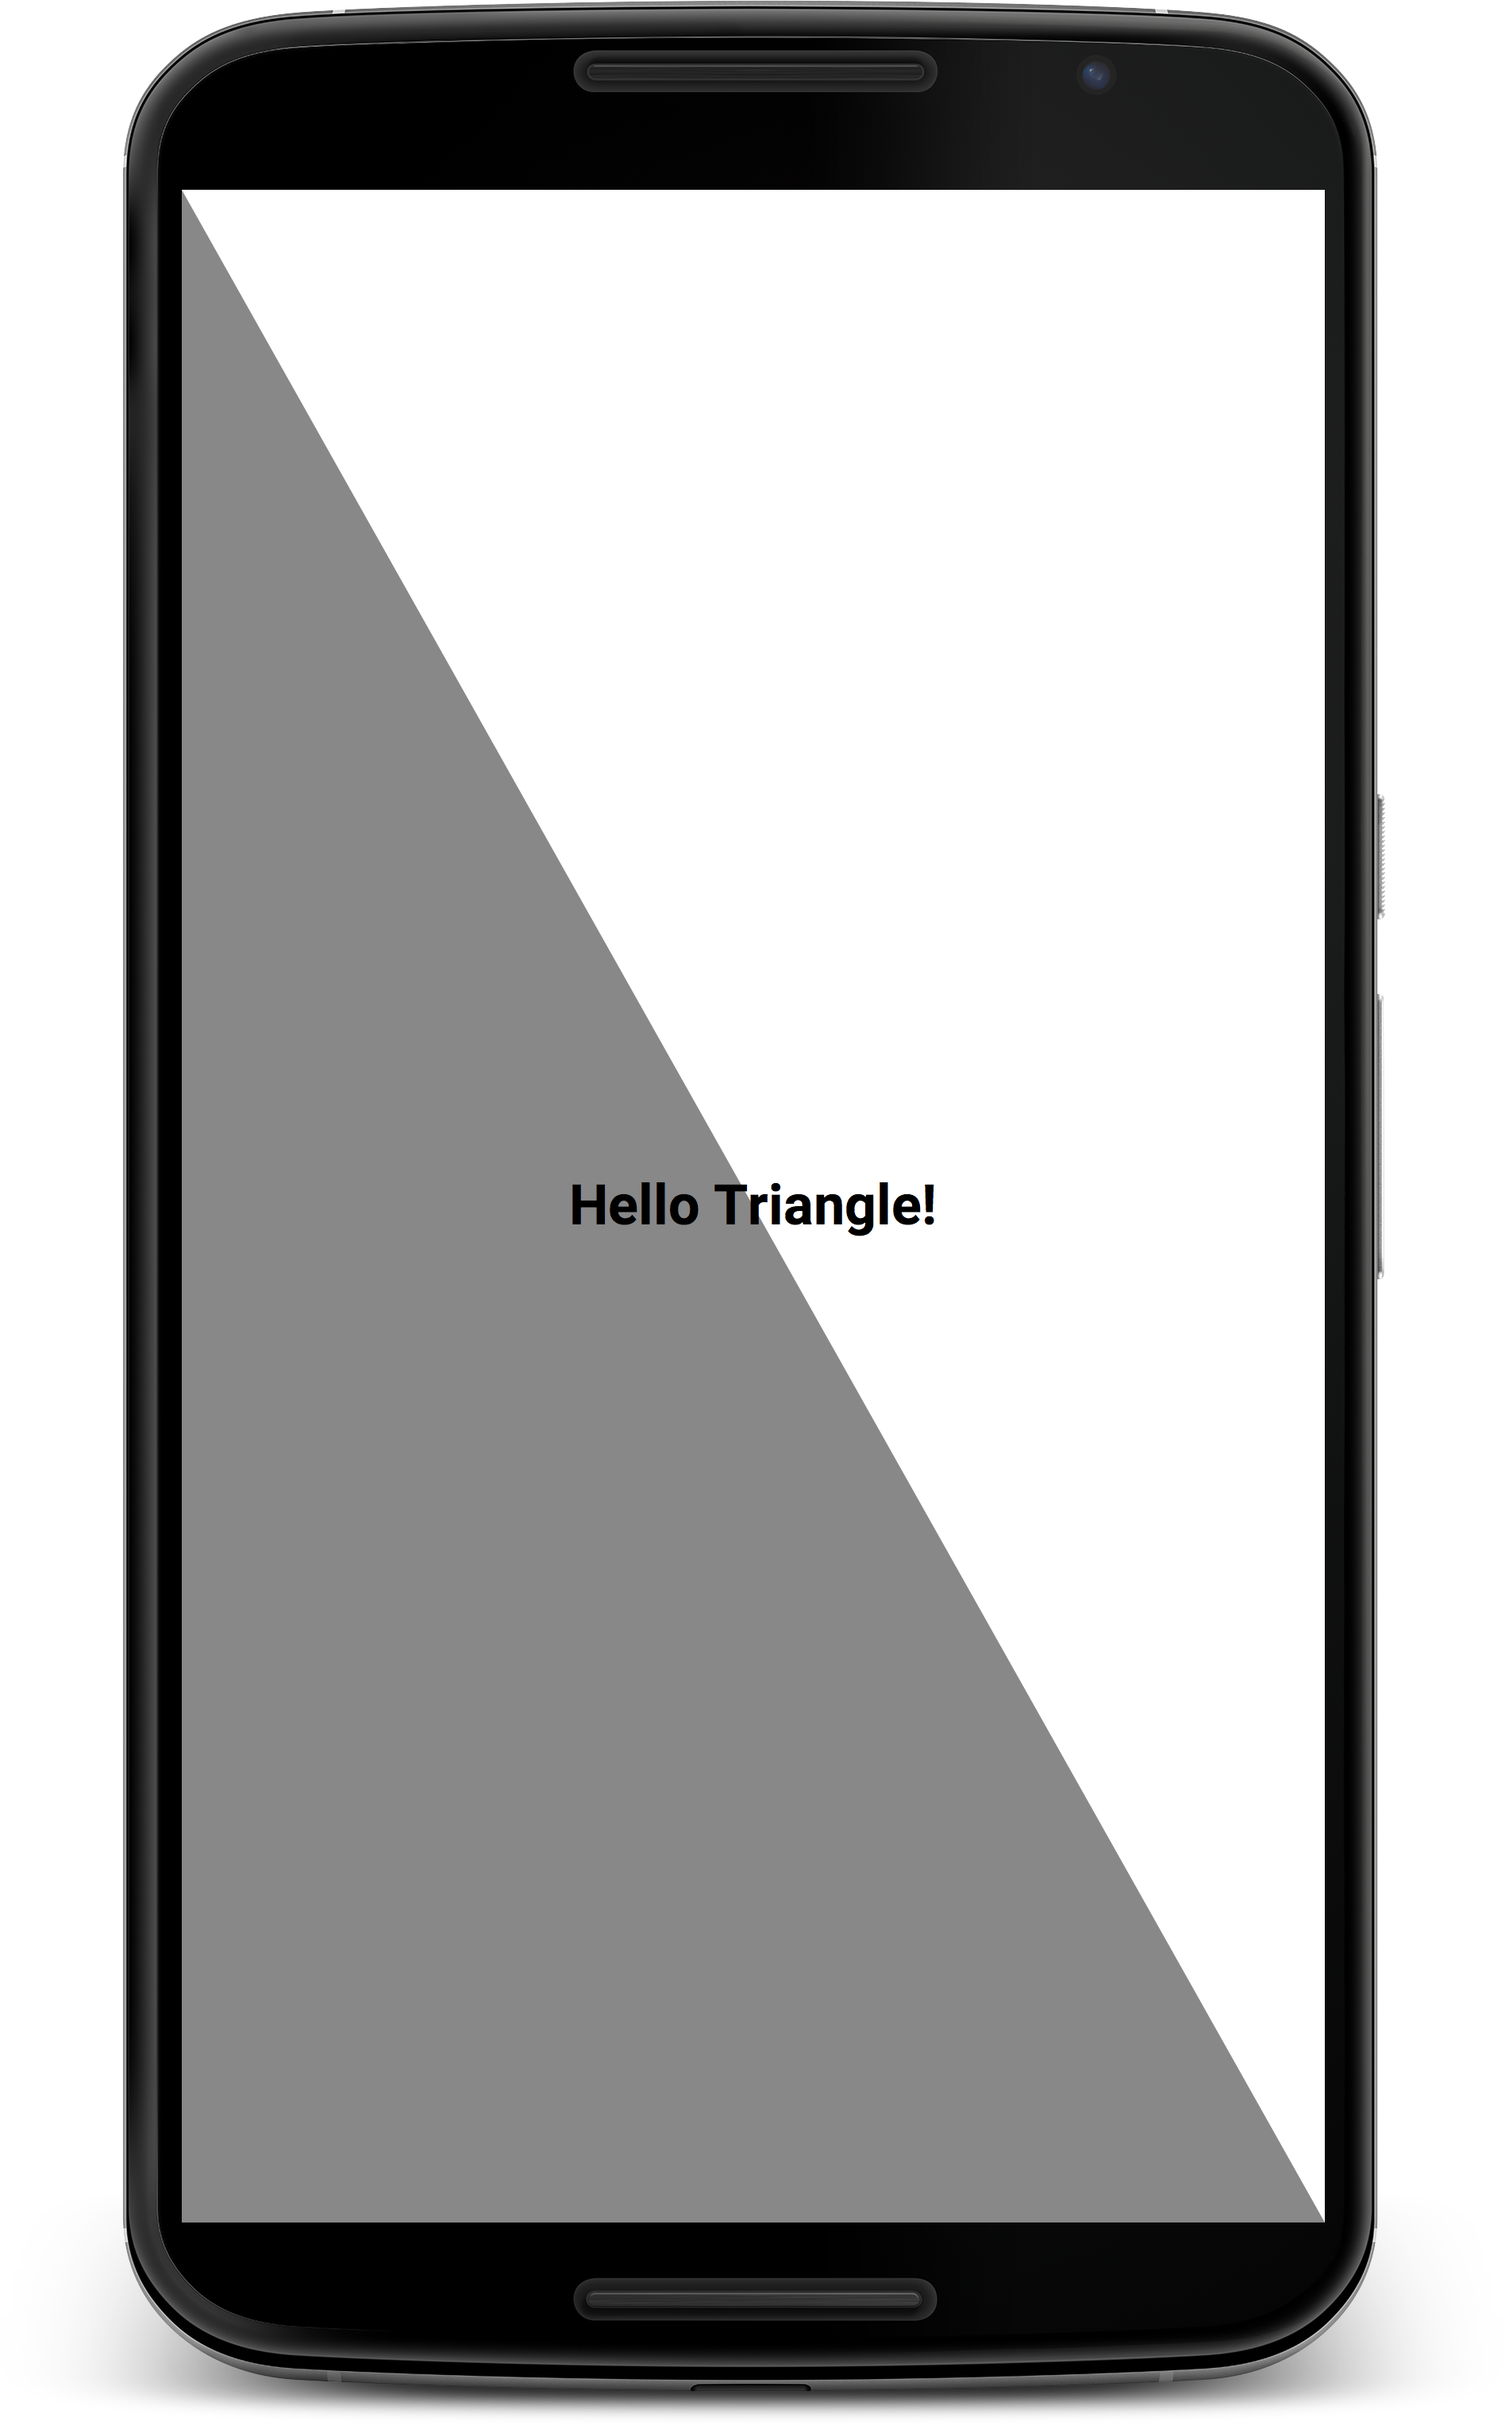
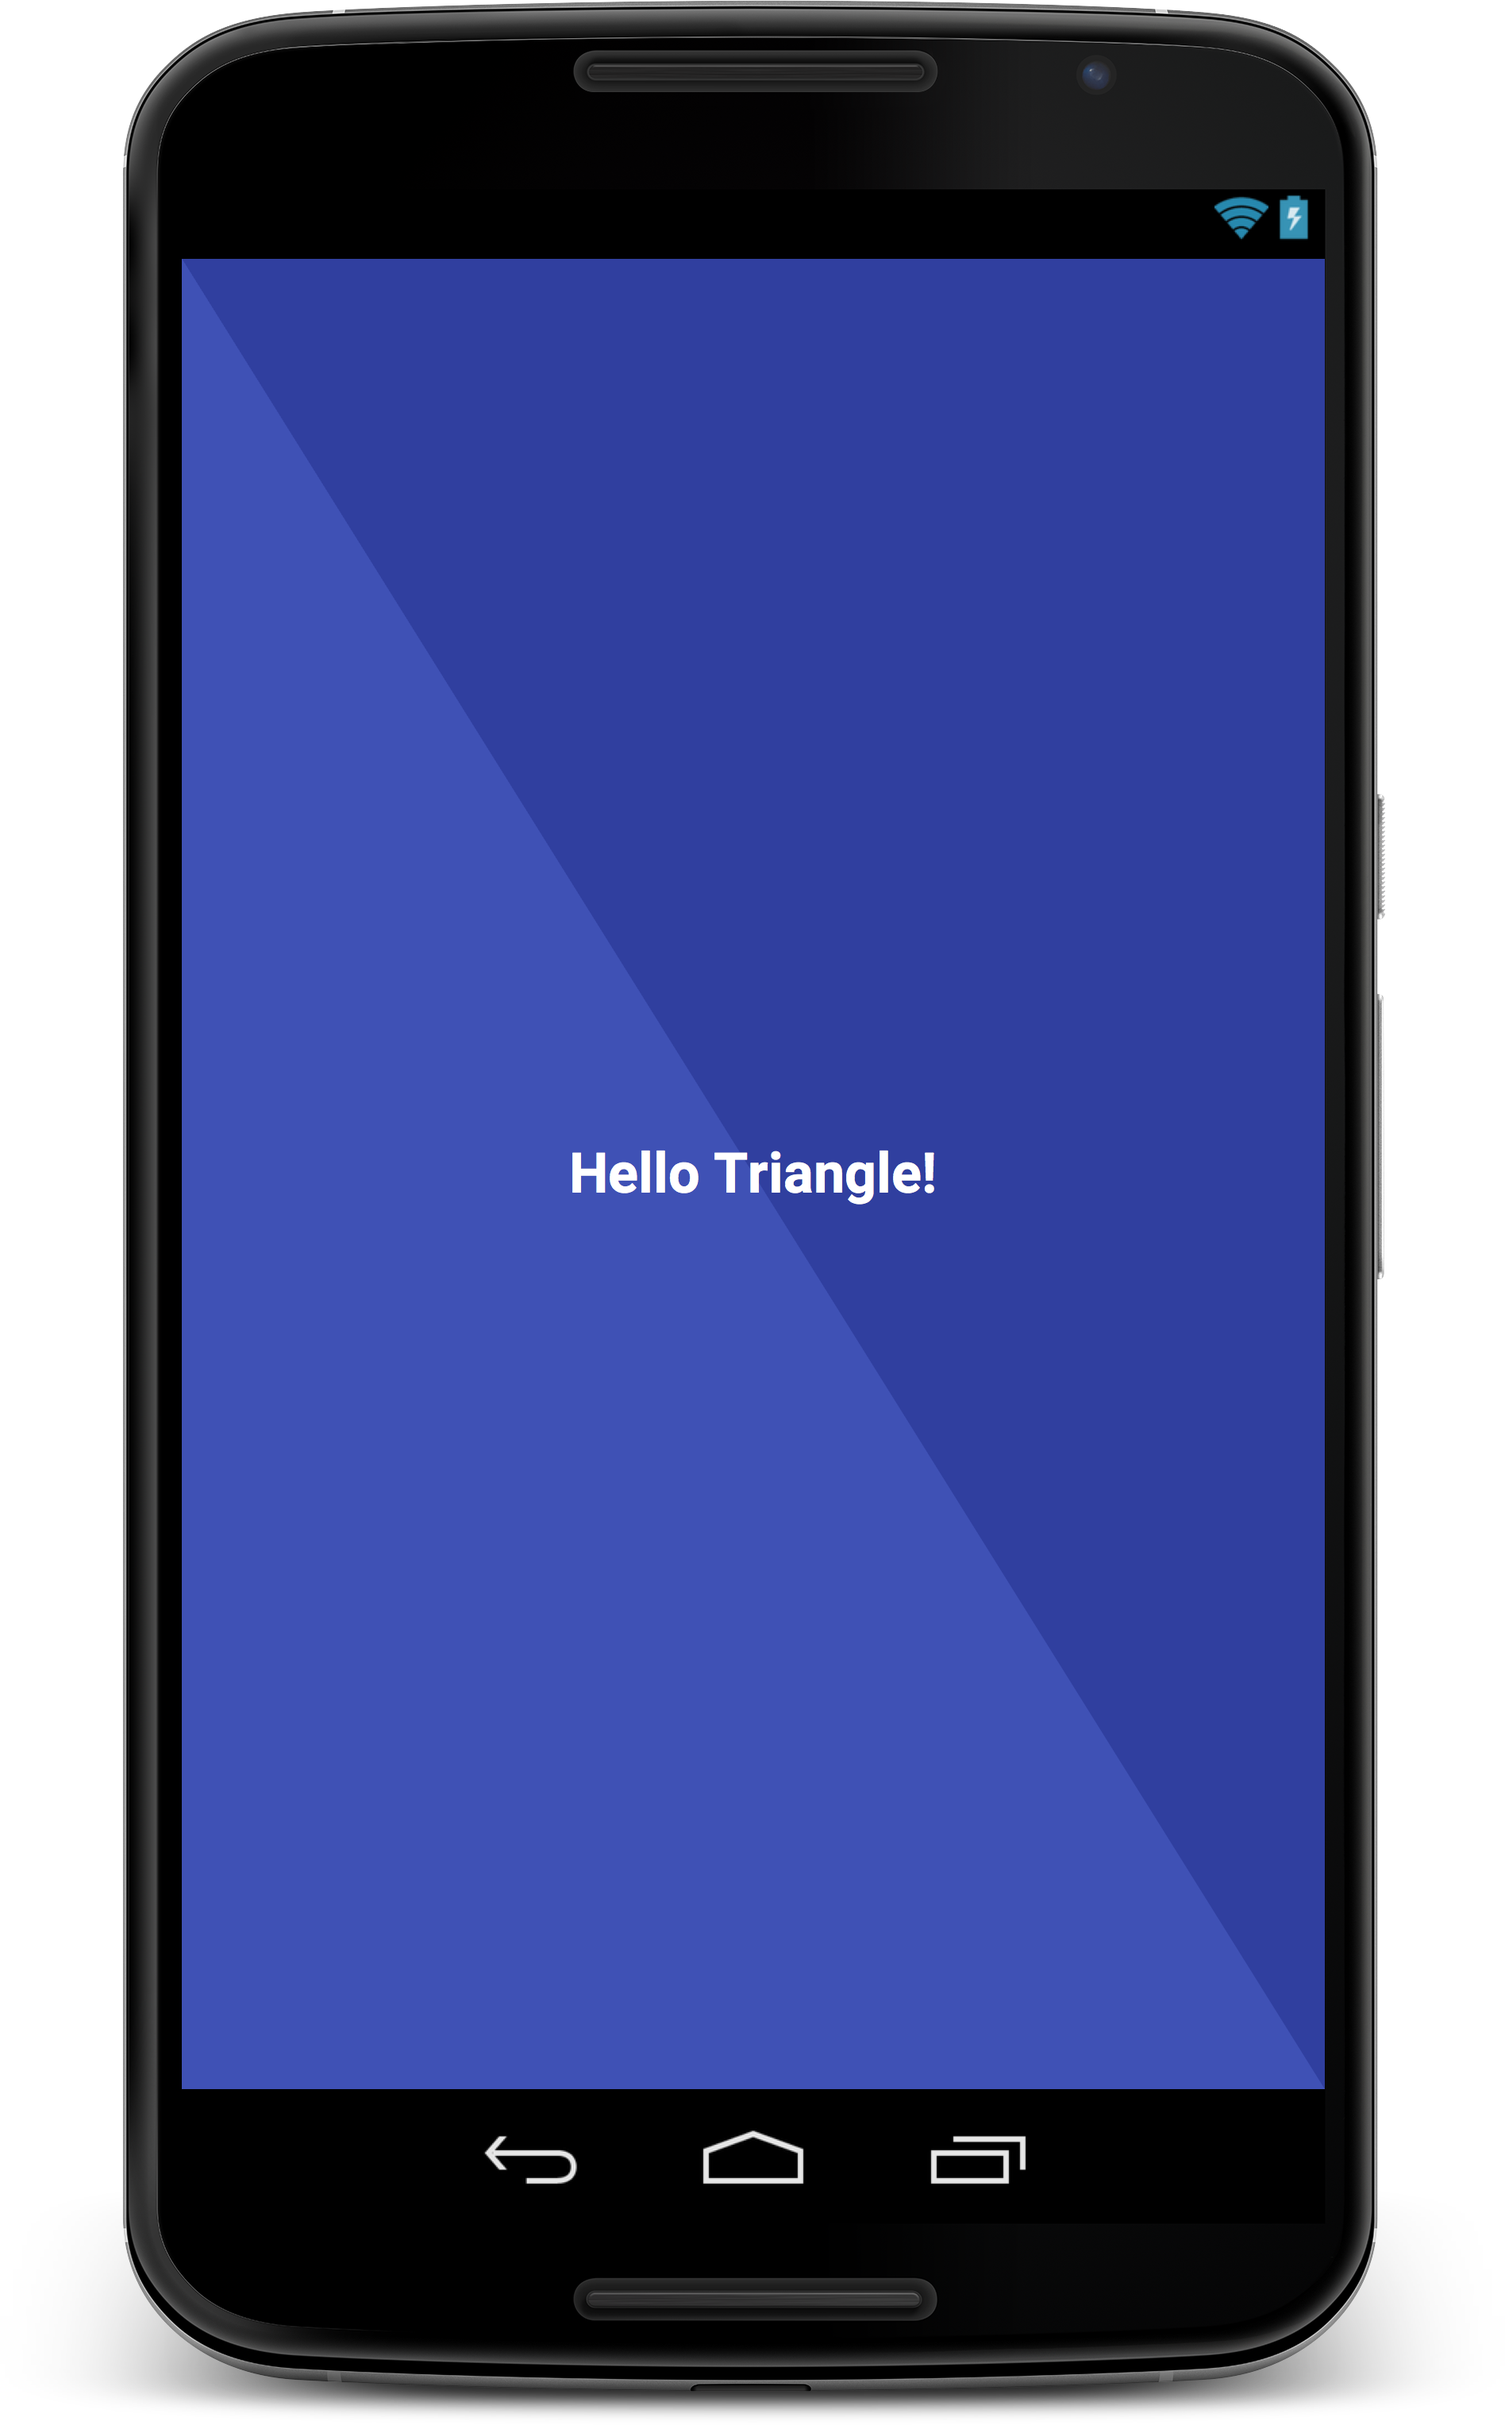
Change color

diff --git a/TriangleBackgroundView/app/src/main/java/com/ubelab/trianglebackgroundview/TriangleBackgroundView.java b/TriangleBackgroundView/app/src/main/java/com/ubelab/trianglebackgroundview/TriangleBackgroundView.java
@@ -39,11 +39,11 @@ public class TriangleBackgroundView extends View {
         paint.setAntiAlias(true);
         paint.setStrokeCap(Paint.Cap.SQUARE);
         paint.setStyle(Paint.Style.FILL);
-        paint.setColor(Color.GRAY);
+        paint.setColor(getResources().getColor(R.color.primaryColor));
 
         bgPaint= new Paint();
         bgPaint.setStyle(Paint.Style.FILL);
-        bgPaint.setColor(Color.WHITE);
+        bgPaint.setColor(getResources().getColor(R.color.primaryColorDark));
     }
 
     @Override
